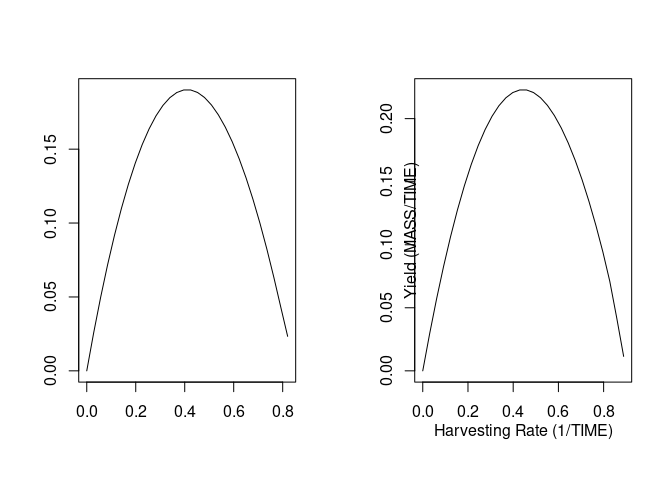
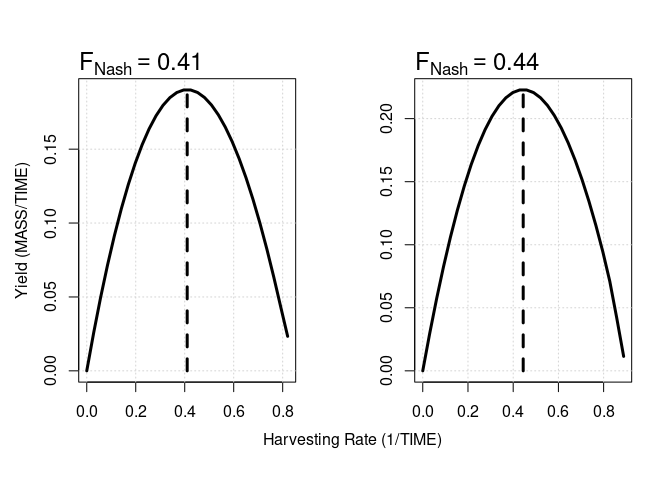
Starting page done

diff --git a/README.md b/README.md
@@ -124,12 +124,12 @@ print(NE)
 ```
 
 By setting the `yield.curves` argument within the `nash` call equal to
-`TRUE`, it is possible to compute the yield curves at the NE to verify
-that, indeed, “*no fleet can attain higher yields by changing their
-corresponding harvesting rates*”.
+`TRUE`, it is possible to graphically verify that “*no fleet can attain
+higher yields by changing their corresponding harvesting rates*”.
 
-<img src="man/figures/README-unnamed-chunk-4-1.png" width="100%" /> \#
-Assistance
+<img src="man/figures/README-unnamed-chunk-4-1.png" width="100%" />
+
+# Assistance
 
 If you encounter a bug, please file an issue with a minimal reproducible
 example on
